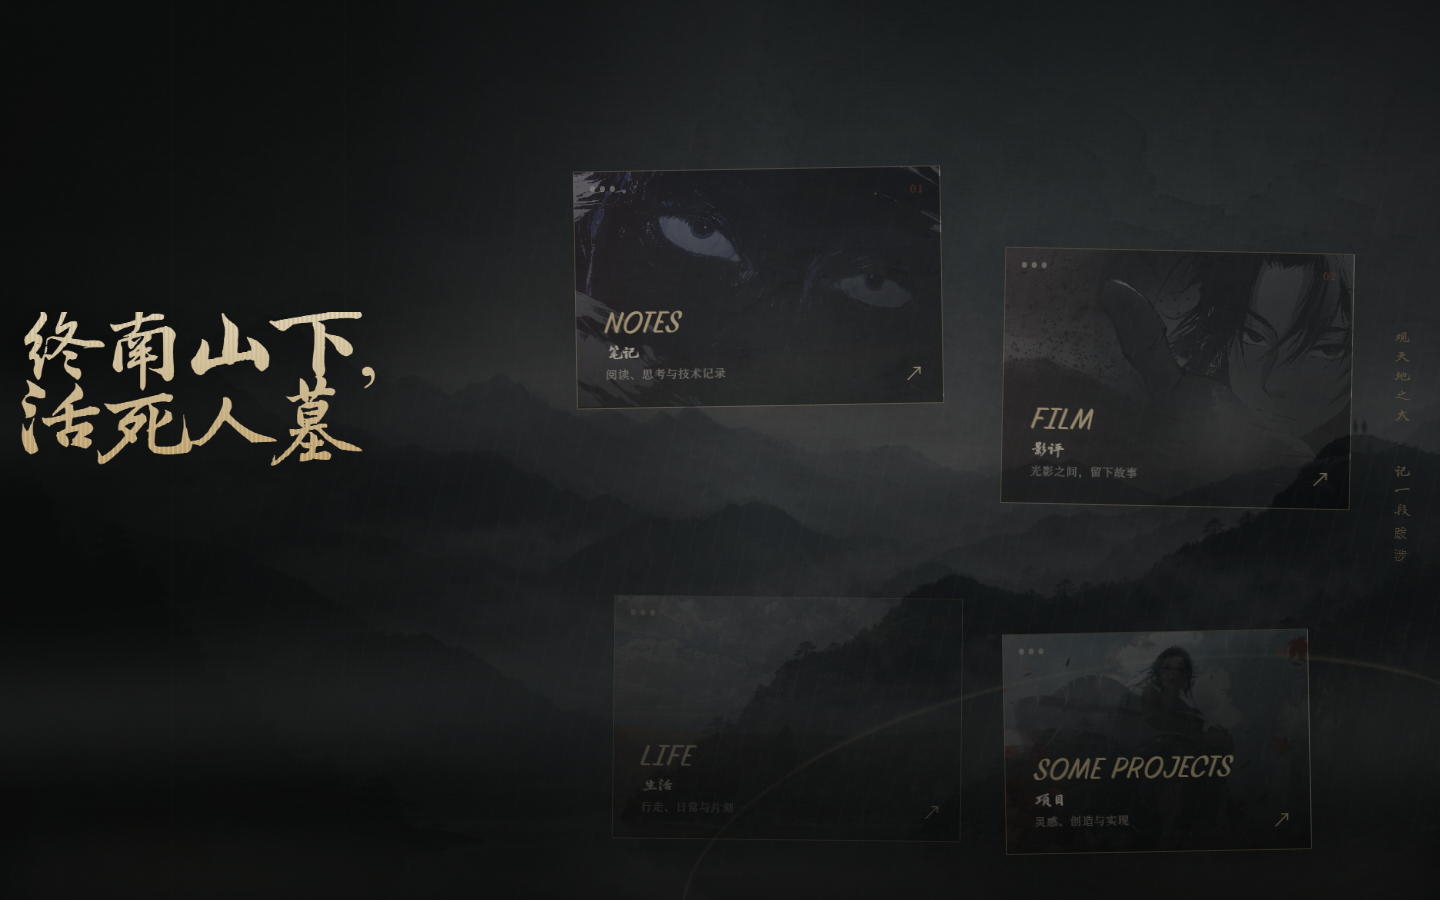
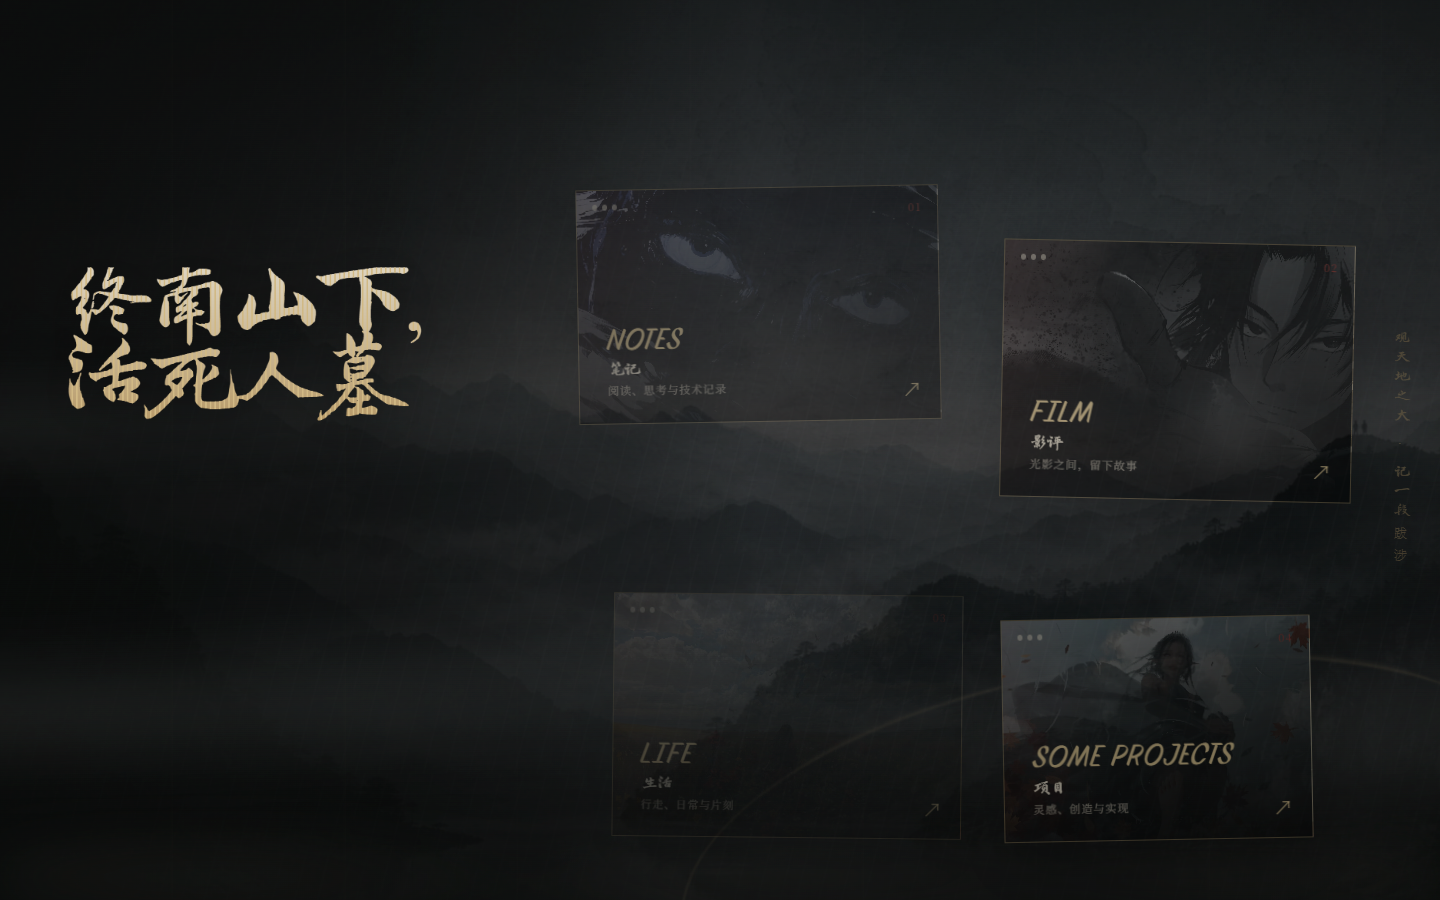
fix: align cover and home typography

diff --git a/src/styles/cover.css b/src/styles/cover.css
@@ -159,25 +159,31 @@
   clip-path: polygon(0 0, 100% 0, 100% 100%, 4% 100%, 23% 48%);
 }
 
-.cover__content {
+.cover__content,
+.home-hero__copy {
   position: absolute;
-  z-index: 10;
-  top: 50%;
+  top: var(--hero-copy-top);
   left: var(--page-pad);
-  width: min(43rem, 49vw);
-  transform: translateY(-49%);
+  width: var(--hero-copy-width);
 }
 
-.cover__eyebrow {
+.cover__content {
+  z-index: 10;
+}
+
+.hero-eyebrow {
   margin: 0 0 clamp(1.1rem, 2.2vw, 2rem);
-  color: var(--gold);
   font-family: var(--font-latin);
   font-size: clamp(0.64rem, 0.75vw, 0.78rem);
+  line-height: 1;
   letter-spacing: 0.24em;
 }
 
-.cover__title {
-  max-width: 8em;
+.cover__eyebrow {
+  color: var(--gold);
+}
+
+.site-title {
   margin: 0;
   color: transparent;
   background:
@@ -186,12 +192,21 @@
   background-clip: text;
   -webkit-background-clip: text;
   font-family: var(--font-display);
-  font-size: clamp(3.3rem, 7.4vw, 8.9rem);
+  font-size: var(--title-size);
   font-weight: 400;
   line-height: 0.95;
   letter-spacing: 0.035em;
-  text-wrap: balance;
   filter: drop-shadow(0 0.1em 0.3em rgba(0, 0, 0, 0.4));
+}
+
+.site-title__line {
+  display: block;
+  width: max-content;
+  white-space: nowrap;
+}
+
+.cover__title {
+  --title-size: clamp(3.3rem, 7.4vw, 8.9rem);
 }
 
 .transition-title {
@@ -200,21 +215,9 @@
   top: 0;
   left: 0;
   max-width: none;
-  margin: 0;
-  color: transparent;
   visibility: hidden;
   pointer-events: none;
   opacity: 0;
-  background:
-    repeating-linear-gradient(90deg, var(--gold-bright) 0 2px, transparent 2px 6px),
-    linear-gradient(var(--paper), var(--gold));
-  background-clip: text;
-  -webkit-background-clip: text;
-  font-family: var(--font-display);
-  font-weight: 400;
-  letter-spacing: 0.035em;
-  text-wrap: balance;
-  filter: drop-shadow(0 0.1em 0.3em rgba(0, 0, 0, 0.4));
   transform-origin: top left;
   will-change: transform, opacity;
 }
@@ -280,18 +283,21 @@
   width: 56vw;
 }
 
-.cover__side-copy {
+.hero-vertical {
   position: absolute;
-  z-index: 10;
   top: 50%;
   right: clamp(1.1rem, 2.2vw, 2.5rem);
   margin: 0;
-  color: var(--gold);
   font-family: var(--font-display);
   font-size: 0.83rem;
   letter-spacing: 0.42em;
   writing-mode: vertical-rl;
   transform: translateY(-50%);
+}
+
+.cover__side-copy {
+  z-index: 10;
+  color: var(--gold);
 }
 
 .cover__prompt {

diff --git a/index.html b/index.html
@@ -38,7 +38,7 @@
       <div class="cover__line cover__line--right" aria-hidden="true"></div>
 
       <div class="cover__content">
-        <p class="cover__eyebrow">A PERSONAL ARCHIVE · 2026</p>
+        <p class="cover__eyebrow hero-eyebrow">A PERSONAL ARCHIVE · 2026</p>
         <h1 id="cover-title" class="site-title cover__title" data-site-title>
           <span class="site-title__line">终南山下，</span>
           <span class="site-title__line">活死人墓</span>
@@ -50,7 +50,7 @@
         </button>
       </div>
 
-      <p class="cover__side-copy" aria-hidden="true">观天地之大 · 记一段跋涉</p>
+      <p class="cover__side-copy hero-vertical" aria-hidden="true">观天地之大 · 记一段跋涉</p>
       <p class="cover__prompt">滚动或点击进入 <span aria-hidden="true">↓</span></p>
     </section>
 
@@ -79,7 +79,7 @@
         <div class="home-fog home-fog--back" aria-hidden="true"></div>
         <div class="home-fog home-fog--front" aria-hidden="true"></div>
         <div class="home-hero__copy">
-          <p class="section-kicker">FIELD JOURNAL · NOTES / FILM / LIFE / PROJECTS</p>
+          <p class="section-kicker hero-eyebrow">FIELD JOURNAL · NOTES / FILM / LIFE / PROJECTS</p>
           <h2 id="home-heading" class="site-title home-hero__title" data-home-heading data-site-title tabindex="-1">
             <span class="site-title__line">终南山下，</span>
             <span class="site-title__line">活死人墓</span>
@@ -97,7 +97,7 @@
           <a class="portal" href="/projects/">SOME PROJECTS</a>
         </div>
 
-        <p class="home-hero__vertical" aria-hidden="true">所见 · 所得 · 所思 · 所想</p>
+        <p class="home-hero__vertical hero-vertical" aria-hidden="true">所见 · 所得 · 所思 · 所想</p>
       </section>
 
       <section id="overview" class="overview" aria-labelledby="overview-title">

diff --git a/src/styles/responsive.css b/src/styles/responsive.css
@@ -44,12 +44,15 @@
 
   .home-hero {
     min-height: auto;
+    padding-top: var(--hero-copy-top);
     padding-bottom: 5rem;
   }
 
   .home-hero__copy {
-    width: min(40rem, 84vw);
-    margin-top: 3rem;
+    position: relative;
+    top: auto;
+    left: auto;
+    width: var(--hero-copy-width);
   }
 
   .home-hero__title {
@@ -94,6 +97,8 @@
 @media (max-width: 640px) {
   :root {
     --header-height: 4.2rem;
+    --hero-copy-top: clamp(7rem, 22vh, 12rem);
+    --hero-copy-width: calc(100% - 2 * var(--page-pad));
   }
 
   .cover::after {
@@ -106,8 +111,6 @@
   }
 
   .cover__content {
-    top: 46%;
-    width: calc(100% - 2 * var(--page-pad));
     text-align: center;
   }
 
@@ -115,10 +118,17 @@
     letter-spacing: 0.16em;
   }
 
+  .cover__title,
+  .home-hero__title {
+    --title-size: clamp(2.7rem, 13vw, 4.6rem);
+  }
+
   .cover__title {
-    max-width: 7em;
     margin-inline: auto;
-    font-size: clamp(3rem, 16vw, 5.2rem);
+  }
+
+  .cover__title .site-title__line {
+    margin-inline: auto;
   }
 
   .cover__subtitle {
@@ -165,16 +175,11 @@
   }
 
   .home-hero {
-    padding-top: calc(var(--header-height) + 3rem);
+    padding-top: var(--hero-copy-top);
   }
 
   .home-hero__copy {
-    width: 100%;
-    margin-top: 1rem;
-  }
-
-  .home-hero__title {
-    font-size: clamp(2.8rem, 14vw, 4.6rem);
+    width: var(--hero-copy-width);
   }
 
   .portal-grid {

diff --git a/src/styles/home.css b/src/styles/home.css
@@ -227,30 +227,18 @@
 }
 
 .home-hero__copy {
-  position: relative;
   z-index: 4;
-  width: min(31rem, 34vw);
-  margin-top: clamp(8vh, 13vh, 10rem);
+  margin: 0;
   opacity: 0;
-  transform: translateX(-3rem);
-  transition: opacity 900ms ease, transform 1.1s var(--ease-out);
+  transition: opacity 900ms ease;
 }
 
 .is-open .home-hero__copy {
   opacity: 1;
-  transform: translateX(0);
 }
 
 .home-hero__title {
-  margin: 0;
-  color: var(--gold-bright);
-  font-family: var(--font-display);
-  font-size: clamp(3.1rem, 5.65vw, 7rem);
-  font-weight: 400;
-  line-height: 1.02;
-  letter-spacing: 0.045em;
-  text-wrap: balance;
-  text-shadow: 0 0.2rem 1.6rem rgba(0, 0, 0, 0.5);
+  --title-size: clamp(3.1rem, 5.65vw, 7rem);
 }
 
 .home-hero__title:focus {
@@ -281,17 +269,9 @@
 }
 
 .home-hero__vertical {
-  position: absolute;
   z-index: 5;
-  top: 50%;
-  right: clamp(1.1rem, 2vw, 2rem);
-  margin: 0;
   color: rgba(183, 154, 104, 0.68);
-  font-size: 0.72rem;
-  letter-spacing: 0.38em;
-  writing-mode: vertical-rl;
   opacity: 0;
-  transform: translateY(-50%);
 }
 
 .is-open .home-hero__vertical {

diff --git a/tests/styles.test.js b/tests/styles.test.js
@@ -30,3 +30,12 @@ test('keeps cover and home in one visual space during the transition', () => {
   assert.ok(css.includes('/images/mountain-cover.webp'));
   assert.ok(!css.includes('/images/mountain-cover.png'));
 });
+
+test('uses one title system and one hero anchor system', () => {
+  assert.match(css, /\.site-title\s*\{[\s\S]*?font-family:\s*var\(--font-display\)/);
+  assert.match(css, /\.site-title__line\s*\{[\s\S]*?display:\s*block/);
+  assert.match(css, /--hero-copy-top:/);
+  assert.match(css, /--hero-copy-width:/);
+  assert.match(css, /\.hero-eyebrow\s*\{/);
+  assert.match(css, /\.hero-vertical\s*\{/);
+});

diff --git a/src/styles/tokens.css b/src/styles/tokens.css
@@ -30,6 +30,8 @@
   --ease-out: cubic-bezier(0.22, 1, 0.36, 1);
   --page-pad: clamp(1.25rem, 3.7vw, 4.5rem);
   --header-height: clamp(4.5rem, 7vw, 6.5rem);
+  --hero-copy-top: clamp(8.5rem, 25vh, 17rem);
+  --hero-copy-width: min(43rem, 49vw);
   --z-home: 1;
   --z-cover: 100;
   --z-skip: 200;

diff --git a/tests/smoke.py b/tests/smoke.py
@@ -49,7 +49,45 @@ def exercise_desktop(browser):
     )
 
     page.goto(BASE_URL, wait_until="networkidle")
-    assert page.locator("#cover-title").inner_text() == "终南山下，活死人墓"
+    title_contract = page.evaluate(
+        """
+        () => {
+          const cover = document.querySelector('#cover-title');
+          const home = document.querySelector('#home-heading');
+          const coverVertical = document.querySelector('.cover__side-copy');
+          const homeVertical = document.querySelector('.home-hero__vertical');
+          const coverRect = cover.getBoundingClientRect();
+          const homeRect = home.getBoundingClientRect();
+          const coverStyle = getComputedStyle(cover);
+          const homeStyle = getComputedStyle(home);
+          const coverVerticalStyle = getComputedStyle(coverVertical);
+          const homeVerticalStyle = getComputedStyle(homeVertical);
+          return {
+            coverLines: cover.querySelectorAll('.site-title__line').length,
+            homeLines: home.querySelectorAll('.site-title__line').length,
+            sameFont: coverStyle.fontFamily === homeStyle.fontFamily,
+            sameFill: coverStyle.backgroundImage === homeStyle.backgroundImage,
+            leftDelta: Math.abs(coverRect.left - homeRect.left),
+            topDelta: Math.abs(coverRect.top - homeRect.top),
+            sameVerticalFont: coverVerticalStyle.fontFamily === homeVerticalStyle.fontFamily,
+            sameVerticalSize: coverVerticalStyle.fontSize === homeVerticalStyle.fontSize,
+            sameVerticalSpacing: coverVerticalStyle.letterSpacing === homeVerticalStyle.letterSpacing,
+            sameVerticalRight: coverVerticalStyle.right === homeVerticalStyle.right,
+          };
+        }
+        """
+    )
+    assert title_contract["coverLines"] == 2, title_contract
+    assert title_contract["homeLines"] == 2
+    assert title_contract["sameFont"]
+    assert title_contract["sameFill"]
+    assert title_contract["leftDelta"] <= 1
+    assert title_contract["topDelta"] <= 2
+    assert title_contract["sameVerticalFont"]
+    assert title_contract["sameVerticalSize"]
+    assert title_contract["sameVerticalSpacing"]
+    assert title_contract["sameVerticalRight"]
+    assert page.locator("#cover-title").inner_text().replace("\n", "") == "终南山下，活死人墓"
     page.screenshot(path=PREVIEWS / "desktop-cover.png", full_page=False)
     assert_no_horizontal_overflow(page, "desktop cover")
 
@@ -68,6 +106,7 @@ def exercise_desktop(browser):
         "element => Number.parseFloat(getComputedStyle(element).opacity)"
     )
     assert transition_title_opacity > 0.45
+    assert page.locator("[data-transition-title] .site-title__line").count() == 2
     assert home_landscape_opacity > 0.2
     assert cover_opacity > 0
     page.screenshot(path=PREVIEWS / "desktop-transition.png", full_page=False)
